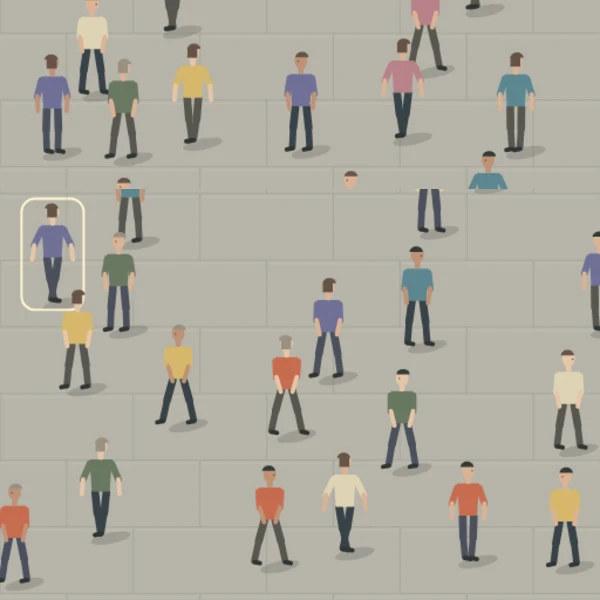
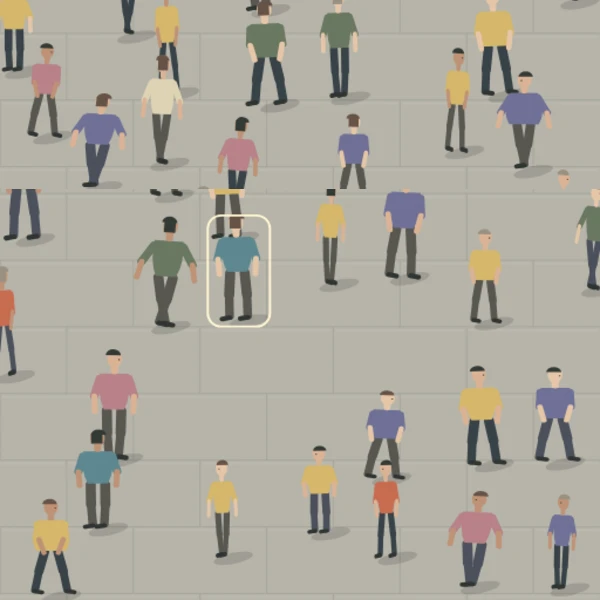
群衆を50人に増やし歩き方と体形に個性を追加

diff --git a/games/_shuto/index.html b/games/_shuto/index.html
@@ -131,6 +131,7 @@
   var S = { INTRO: "intro", PLAY: "play", RESULT: "result" };
   var state, score, T, held, keyMode = false;
 
+  var CROWD_SIZE=50;
   var people=[], attacker=-1, victim=-1, attackAt=0, elapsed=-1, outcome='', selected=0;
   var clothes=['#c76c50','#5d8790','#d5b76b','#697761','#6f7096','#b88188','#ded3b4'];
   var crowdHeight=960;
@@ -148,7 +149,7 @@
     held = false;
     attackAt=2.5+Math.random()*4; elapsed=-1; outcome=''; attacker=-1; victim=-1; selected=0;
     people=[];
-    for(var i=0;i<42;i++){
+    for(var i=0;i<CROWD_SIZE;i++){
       var p=makePerson(i),tries=0;
       do{p.x=15+Math.random()*510;p.y=40+Math.random()*(H-55);tries++;}
       while(tries<1000&&people.some(function(q){return Math.hypot(p.x-q.x,p.y-q.y)<66;}));
@@ -183,8 +184,22 @@
 
   // 行き先は画面外。退場してから、別の入口の外側へ戻す。
   function makePerson(id){
-    var angle=Math.random()*Math.PI*2,speed=19+Math.random()*16;
+    // ゆったり、大股、小刻み、弾む歩き、肩を揺らす歩き。
+    var styles=[
+      {speed:20,pace:4.2,stride:.6,arm:.45,bounce:.4,sway:.012,lean:.025},
+      {speed:32,pace:5.1,stride:1.35,arm:1.2,bounce:1.1,sway:.02,lean:.065},
+      {speed:29,pace:8.4,stride:.55,arm:.55,bounce:.7,sway:.012,lean:.04},
+      {speed:27,pace:6.3,stride:.95,arm:1.05,bounce:2.8,sway:.025,lean:.015},
+      {speed:22,pace:4.7,stride:.85,arm:.75,bounce:.5,sway:.065,lean:-.02}
+    ];
+    var gait=styles[id%styles.length],variation=.9+Math.random()*.2;
+    var builds=[{width:.78,waist:7,belly:8},{width:1,waist:8,belly:9},{width:1.3,waist:7,belly:9},{width:1.2,waist:11,belly:14}];
+    var build=builds[Math.floor(Math.random()*builds.length)];
+    var angle=Math.random()*Math.PI*2,speed=gait.speed*variation;
     return {id:id,x:0,y:0,vx:Math.cos(angle)*speed,vy:Math.sin(angle)*speed,speed:speed,
+      build:build.width,waist:build.waist,belly:build.belly,stature:.87+Math.random()*.26,
+      gait:id%styles.length,pace:gait.pace*variation,stride:gait.stride*(.9+Math.random()*.2),
+      arm:gait.arm,bounce:gait.bounce,sway:gait.sway,lean:gait.lean,asymmetry:Math.random()*.18,
       phase:Math.random()*6.28,color:clothes[Math.floor(Math.random()*clothes.length)],
       hair:Math.floor(Math.random()*3),skin:['#dbb395','#bf9276','#e5c6a8'][Math.floor(Math.random()*3)],
       trousers:['#384248','#575650','#4b505c'][Math.floor(Math.random()*3)],generation:0};
@@ -275,14 +290,14 @@
     var left = e.key === "ArrowLeft" || e.key === "a" || e.key === "A";
     var right = e.key === "ArrowRight" || e.key === "d" || e.key === "D";
     var vertical=e.key==='ArrowUp'?-6:e.key==='ArrowDown'?6:0;
-    if(vertical){e.preventDefault();keyMode=true;if(state===S.PLAY)selected=(selected+vertical+42)%42;return;}
+    if(vertical){e.preventDefault();keyMode=true;if(state===S.PLAY)selected=(selected+vertical+people.length)%people.length;return;}
     if (!esc && !go && !left && !right) return;
     e.preventDefault();
     if (!esc) keyMode = true;
     if (esc) { if (!e.repeat) newRound(); return; }
     if (left || right) {
       if (state !== S.PLAY) return;
-      selected=(selected+(left?-1:1)+42)%42;
+      selected=(selected+(left?-1:1)+people.length)%people.length;
       return;
     }
     if (e.repeat) return;                      /* 押しっぱなしで連発しない */
@@ -324,31 +339,36 @@
   function drawPerson(p){
     var q=position(p),fallen=p.id===victim&&elapsed>=0;
     if(q.x< -95||q.x>W+95||q.y< -10||q.y>H+105)return;
-    var walk=Math.sin(T*p.speed*.25+p.phase),side=p.vx<0?-1:1;
+    var cycle=T*p.pace+p.phase,walk=Math.sin(cycle),side=p.vx<0?-1:1;
+    var stride=walk*p.stride,arm=Math.sin(cycle+.18)*p.arm;
     ctx.save();ctx.translate(q.x,q.y);
     ctx.fillStyle='rgba(41,43,39,.17)';ctx.beginPath();ctx.ellipse(9,1,18,5,-.2,0,Math.PI*2);ctx.fill();
-    if(fallen){ctx.translate(0,-5);ctx.rotate(Math.min(1,elapsed/.22)*Math.PI/2);walk=0;}
+    if(fallen){ctx.translate(0,-5);ctx.rotate(Math.min(1,elapsed/.22)*Math.PI/2);walk=0;stride=0;arm=0;}
     // 頭は全身の約七分の一。膝・肘を曲げながら歩く。
-    var bob=fallen?0:Math.abs(walk)*1.2;
+    var bob=fallen?0:Math.abs(walk)*p.bounce;
     ctx.translate(0,-bob);
-    line(-5,-39,-6+walk*4,-21,p.trousers,7);
-    line(-6+walk*4,-21,-6+walk*8,-3,p.trousers,6);
-    line(5,-39,6-walk*4,-21,p.trousers,7);
-    line(6-walk*4,-21,6-walk*8,-3,p.trousers,6);
-    line(-6+walk*8,-2,-6+walk*8+side*5,-1,'#303533',4);
-    line(6-walk*8,-2,6-walk*8+side*5,-1,'#303533',4);
-    ctx.fillStyle=p.color;ctx.beginPath();ctx.moveTo(-10,-69);ctx.lineTo(10,-69);ctx.lineTo(8,-40);ctx.lineTo(-8,-40);ctx.closePath();ctx.fill();
-    line(-10,-65,-13-walk*4,-51,p.color,6);line(-13-walk*4,-51,-12-walk*7,-38,p.skin,4);
+    ctx.scale(p.build,p.stature);
+    if(!fallen)ctx.rotate(side*p.lean+Math.sin(cycle)*p.sway);
+    line(-5,-39,-6+stride*4,-21,p.trousers,7);
+    line(-6+stride*4,-21,-6+stride*8,-3,p.trousers,6);
+    line(5,-39,6-stride*4*(1-p.asymmetry),-21,p.trousers,7);
+    line(6-stride*4*(1-p.asymmetry),-21,6-stride*8*(1-p.asymmetry),-3,p.trousers,6);
+    line(-6+stride*8,-2,-6+stride*8+side*5,-1,'#303533',4);
+    line(6-stride*8*(1-p.asymmetry),-2,6-stride*8*(1-p.asymmetry)+side*5,-1,'#303533',4);
+    ctx.fillStyle=p.color;ctx.beginPath();ctx.moveTo(-10,-69);ctx.lineTo(10,-69);ctx.quadraticCurveTo(p.belly+3,-52,p.waist,-40);ctx.lineTo(-p.waist,-40);ctx.quadraticCurveTo(-p.belly-3,-52,-10,-69);ctx.closePath();ctx.fill();
+    line(-10,-65,-13-arm*4,-51,p.color,6);line(-13-arm*4,-51,-12-arm*7,-38,p.skin,4);
     if(p.id===attacker&&elapsed>=0&&elapsed<.1){
-      var other=position(people[victim]),dx=other.x-q.x,dy=other.y-q.y;
+      var other=position(people[victim]),dx=(other.x-q.x)/p.build,dy=(other.y-q.y)/p.stature;
       line(dx<0?-9:9,-64,dx*.48,dy*.5-65,p.color,6);
-      line(dx*.48,dy*.5-65,dx,dy-72,p.skin,4);
+      line(dx*.48,dy*.5-65,dx,dy-72*people[victim].stature/p.stature,p.skin,4);
       line(dx*.35,-74,dx*.8,dy-78,'#f5eed4',1.5);
-    }else{line(10,-65,13+walk*4,-51,p.color,6);line(13+walk*4,-51,12+walk*7,-38,p.skin,4);}
+    }else{line(10,-65,13+arm*4,-51,p.color,6);line(13+arm*4,-51,12+arm*7,-38,p.skin,4);}
     line(0,-71,0,-75,p.skin,5);
+    ctx.save();ctx.scale(1/Math.sqrt(p.build),1);
     ctx.fillStyle=p.skin;ctx.beginPath();ctx.ellipse(0,-81,5.8,7.3,side*.08,0,Math.PI*2);ctx.fill();
     ctx.fillStyle=['#333a36','#665347','#999082'][p.hair];ctx.beginPath();ctx.ellipse(-side,-84,6,4.8,0,Math.PI,Math.PI*2);ctx.fill();
     if(p.vy< -8){ctx.fillRect(-5,-85,9,9);}else{ctx.fillStyle='#49473f';ctx.fillRect(side*3,-81,1.2,1.2);}
+    ctx.restore();
     ctx.restore();
     if(keyMode&&selected===p.id&&state===S.PLAY){ctx.strokeStyle='#fff6d3';ctx.lineWidth=2;roundRect(q.x-28,q.y-94,56,100,12);ctx.stroke();}
     if(state===S.RESULT&&p.id===attacker){ctx.strokeStyle='#f7cc71';ctx.lineWidth=3;ctx.beginPath();ctx.ellipse(q.x,q.y-44,32,50,0,0,Math.PI*2);ctx.stroke();}

diff --git a/games/_tools/tests/shuto.js b/games/_tools/tests/shuto.js
@@ -5,8 +5,8 @@ for(const shape of [[375,812],[700,700],[500,1600]]){
  for(let round=0;round<9;round++){
   g.probe.reset();g.tap(270,100);assert.equal(g.probe.now().state,'play');
   assert(g.until(()=>g.probe.now().elapsed>=0,1200),'手刀が出る');
-  let s=g.probe.now();assert(Math.abs(s.people[s.attacker].x-s.people[s.victim].x)<88,'近くの相手に手刀');
-  for(let i=0;i<42;i++)for(let j=i+1;j<42;j++){if(i===s.victim||j===s.victim)continue;assert(Math.hypot(s.people[i].x-s.people[j].x,s.people[i].y-s.people[j].y)>=63,'押す間隔');}
+  let s=g.probe.now();assert.equal(s.people.length,50,'群衆は50人');assert(Math.abs(s.people[s.attacker].x-s.people[s.victim].x)<88,'近くの相手に手刀');
+  for(let i=0;i<s.people.length;i++)for(let j=i+1;j<s.people.length;j++){if(i===s.victim||j===s.victim)continue;assert(Math.hypot(s.people[i].x-s.people[j].x,s.people[i].y-s.people[j].y)>=63,'押す間隔');}
   if(round%3===0){g.step(179);assert.equal(g.probe.now().state,'play');g.step(1);assert.equal(g.probe.now().outcome,'miss');assert.equal(g.probe.now().elapsed,3);}
   else if(round%3===1){g.step(120);s=g.probe.now();const p=s.people[s.attacker];g.tap(p.x,p.y);assert.equal(g.probe.now().outcome,'caught');}
   else{let p=s.people.find(p=>p.id!==s.attacker&&p.id!==s.victim&&p.x>32&&p.x<508&&p.y>45&&p.y<s.H-45);g.tap(p.x,p.y);assert.equal(g.probe.now().outcome,'wrong');}
